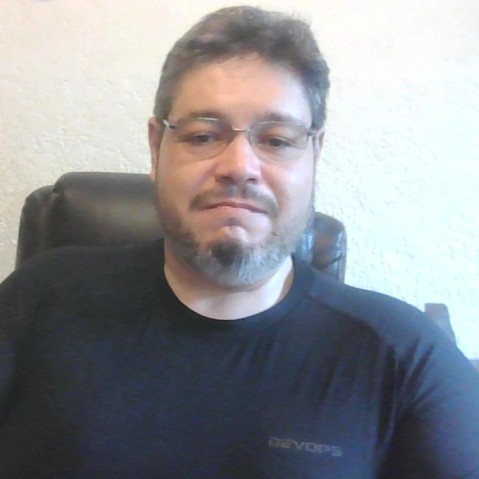
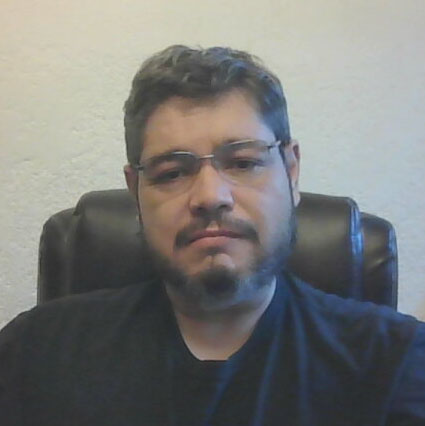
Agenda previa

diff --git a/layouts/speakers/list.html b/layouts/speakers/list.html
@@ -18,7 +18,7 @@
 
     <div class="speaker-strip">
       {{ range .Data.Pages.ByTitle }}
-        {{ if in .Params.events "2023" }}
+        {{ if in .Params.events "2023h2" }}
         <div class="speaker-item">
           <div class="speaker-block">
             <div class="headshot-box">

diff --git a/content/schedule/_index.md b/content/schedule/_index.md
@@ -4,153 +4,121 @@ date: 2021-06-04T09:37:06-05:00
 url: /agenda
 
 days: 
-  - id: a
-    title_short: "28-Mar: Testing & QA"
-    title_full: Martes 28 de marzo de 2023
+  - id: 2023h2a
+    title_short: "3 de octubre"
+    title_full: Martes 3 de octubre de 2023
     rooms: [1]
     timeslots: 
       - id: 1
-        time_start: 2023-03-28 10:00:00 -0600 CDT
+        time_start: 2023-10-03 10:00:00 -0600 CDT
         type: charla
       - id: 2
-        time_start: 2023-03-28 10:40:00 -0600 CDT
+        time_start: 2023-10-03 10:40:00 -0600 CDT
         type: charla
       - id: 3
-        time_start: 2023-03-28 11:30:00 -0600 CDT
+        time_start: 2023-10-03 11:20:00 -0600 CDT
         type: charla
       - id: 4
-        time_start: 2023-03-28 12:10:00 -0600 CDT
+        time_start: 2023-10-03 12:00:00 -0600 CDT
         type: charla
       - id: 5
-        time_start: 2023-03-28 12:50:00 -0600 CDT
+        time_start: 2023-10-03 12:50:00 -0600 CDT
         type: charla
       - id: 6
-        time_start: 2023-03-28 13:30:00 -0600 CDT
+        time_start: 2023-10-03 13:30:00 -0600 CDT
         type: charla
       - id: 7
-        time_start: 2023-03-28 15:00:00 -0600 CDT
+        time_start: 2023-10-03 15:00:00 -0600 CDT
         type: charla
       - id: 8
-        time_start: 2023-03-28 15:40:00 -0600 CDT
+        time_start: 2023-10-03 15:40:00 -0600 CDT
         type: charla
       - id: 9
-        time_start: 2023-03-28 16:30:00 -0600 CDT
+        time_start: 2023-10-03 16:30:00 -0600 CDT
         type: charla
       - id: 10
-        time_start: 2023-03-28 17:10:00 -0600 CDT
+        time_start: 2023-10-03 17:10:00 -0600 CDT
         type: charla
 
-  - id: b
-    title_short: "29-Mar: Desarrollo+Seguridad"
-    title_full: Miércoles 29 de marzo de 2023
+  - id: 2023h2b
+    title_short: "4 de octubre"
+    title_full: Miércoles 4 de octubre de 2023
     rooms: [1]
     timeslots: 
       - id: 1
-        time_start: 2023-03-29 10:00:00 -0600 CDT
+        time_start: 2023-10-04 10:00:00 -0600 CDT
         type: charla
       - id: 2
-        time_start: 2023-03-29 10:40:00 -0600 CDT
+        time_start: 2023-10-04 10:40:00 -0600 CDT
         type: charla
       - id: 3
-        time_start: 2023-03-29 11:30:00 -0600 CDT
+        time_start: 2023-10-04 11:20:00 -0600 CDT
         type: charla
       - id: 4
-        time_start: 2023-03-29 12:10:00 -0600 CDT
+        time_start: 2023-10-04 12:10:00 -0600 CDT
         type: charla
       - id: 5
-        time_start: 2023-03-29 12:50:00 -0600 CDT
+        time_start: 2023-10-04 12:50:00 -0600 CDT
         type: charla
       - id: 6
-        time_start: 2023-03-29 13:30:00 -0600 CDT
+        time_start: 2023-10-04 13:30:00 -0600 CDT
         type: charla
       - id: 7
-        time_start: 2023-03-29 15:00:00 -0600 CDT
+        time_start: 2023-10-04 15:00:00 -0600 CDT
         type: charla
       - id: 8
-        time_start: 2023-03-29 15:40:00 -0600 CDT
+        time_start: 2023-10-04 15:40:00 -0600 CDT
         type: charla
       - id: 9
-        time_start: 2023-03-29 16:30:00 -0600 CDT
+        time_start: 2023-10-04 16:30:00 -0600 CDT
         type: charla
       - id: 10
-        time_start: 2023-03-29 17:10:00 -0600 CDT
+        time_start: 2023-10-04 17:10:00 -0600 CDT
         type: charla
       - id: 11
-        time_start: 2023-03-29 17:10:00 -0600 CDT
+        time_start: 2023-10-04 17:10:00 -0600 CDT
         type: charla
 
-  - id: c
-    title_short: "30-Mar: Low code + asistido por IA"
-    title_full: Jueves 30 de marzo de 2023
+  - id: 2023h2c
+    title_short: "5 de octubre"
+    title_full: Jueves 5 de octubre de 2023
     rooms: [1]
     timeslots: 
       - id: 1
-        time_start: 2023-03-30 10:00:00 -0600 CDT
+        time_start: 2023-10-05 10:00:00 -0600 CDT
         type: charla
       - id: 2
-        time_start: 2023-03-30 10:40:00 -0600 CDT
+        time_start: 2023-10-05 10:40:00 -0600 CDT
         type: charla
       - id: 3
-        time_start: 2023-03-30 11:30:00 -0600 CDT
+        time_start: 2023-10-05 11:30:00 -0600 CDT
         type: charla
       - id: 4
-        time_start: 2023-03-30 12:10:00 -0600 CDT
+        time_start: 2023-10-05 12:10:00 -0600 CDT
         type: charla
       - id: 5
-        time_start: 2023-03-30 12:50:00 -0600 CDT
+        time_start: 2023-10-05 12:50:00 -0600 CDT
         type: charla
       - id: 6
-        time_start: 2023-03-30 15:00:00 -0600 CDT
+        time_start: 2023-10-05 15:00:00 -0600 CDT
         type: charla
       - id: 7
-        time_start: 2023-03-30 15:40:00 -0600 CDT
+        time_start: 2023-10-05 15:40:00 -0600 CDT
         type: charla
       - id: 8
-        time_start: 2023-03-30 16:30:00 -0600 CDT
+        time_start: 2023-10-05 16:30:00 -0600 CDT
         type: charla
       - id: 9
-        time_start: 2023-03-30 17:10:00 -0600 CDT
+        time_start: 2023-10-05 17:10:00 -0600 CDT
         type: charla
-  - id: d
-    title_short: "31-Mar: DevOps & Engineering management"
-    title_full: Viernes 31 de marzo de 2023
-    rooms: [1]
-    timeslots: 
-      - id: 1
-        time_start: 2023-03-31 10:00:00 -0600 CDT
-        type: charla
-      - id: 2
-        time_start: 2023-03-31 10:40:00 -0600 CDT
-        type: charla
-      - id: 3
-        time_start: 2023-03-31 11:30:00 -0600 CDT
-        type: charla
-      - id: 4
-        time_start: 2023-03-31 12:10:00 -0600 CDT
-        type: charla
-      - id: 5
-        time_start: 2023-03-31 13:00:00 -0600 CDT
-        type: charla
-      - id: 6
-        time_start: 2023-03-31 13:40:00 -0600 CDT
-        type: charla
-      - id: 7
-        time_start: 2023-03-31 14:30:00 -0600 CDT
-        type: charla
-      - id: 8
-        time_start: 2023-03-31 15:10:00 -0600 CDT
-        type: charla
+
 
   
 tracks:
-  - slug: testing-qa
-    label: Testing & QA
-  - slug: lowcode-ia
-    label: Low Code & IA
-  - slug: trends
-    label: Trends
-  - slug: community
-    label: Community  
+  - slug: sre
+    label: SRE
+  - slug: cicd
+    label: CI/CD
   - slug: workshop
     label: Workshop  
 

diff --git a/content/speakers/alejandra-bricio/_index.md b/content/speakers/alejandra-bricio/_index.md
@@ -1,0 +1,18 @@
+---
+title: Alejandra Bricio
+date: 2023-01-13T00:37:59-06:00
+images : 
+ - images/speakers/alejandra-bricio.jpg
+designation: Site Reliability Engineer en PayPal 
+twitter: 
+linkedin: https://www.linkedin.com/in/alejandrabricio/
+github: 
+events:
+ - 2023h2
+---
+
+Engineer with experience in AWS Cloud and automation. I'm proficient in infrastructure provisioning and monitoring, and have extensive experience implementing CI/CD pipelines, collaborating with development teams to implement observability and reliability requirements, and providing site reliability and availability. 
+
+My expertise in Infrastructure as Code (IaC) using Terraform and AWS CloudFormation has resulted in significant reductions in infrastructure deployment time and errors. I've implemented continuous delivery (CI/CD) using a variety of tools and technologies, resulting in a reduction in deployment failures and an increase in deployment frequency. 
+
+With certifications in AWS Certified Solutions Architect – Associate and GitOps Certified for Argo, and skills in Kubernetes, CI/CD, Terraform, New Relic, Amazon EC2, Python, Amazon Web Services (AWS), Docker, Bash, PostgreSQL, AWS CloudFormation, Amazon ECS, I'm ready to bring my expertise and dedication to the next challenge in my career.

diff --git a/content/sessions/2023h2/b3-cultura-generativa.md b/content/sessions/2023h2/b3-cultura-generativa.md
@@ -1,0 +1,18 @@
+---
+title: "Creando una Cultura Generativa para SRE"
+slug: cultura-generativa
+speakers:
+ - Cristopher Avila
+time_start: 2023-10-04T11:20:00-06:00
+time_end: 2023-10-04T11:55:00-06:00
+day: 2023h2b
+timeslot: 3
+room: 1
+timeorder: 1
+track: sre
+video: 
+slides: 
+
+---
+
+Invertir en personas, procesos y herramientas. La confiabilidad es un esfuerzo humano, y en muchos sentidos el enfoque SRE lo ejemplifica. Uno de los principios básicos SRE es, que la percepción del usuario es la verdadera medida de confiabilidad. Así que tal vez no sea sorprendente que la confiabilidad es impulsada por una dinámica de equipo positiva. En el reporte de DORA vemos que los equipos con una cultura “generativa”, donde se exhibe confianza y colaboración, son más propensos a practicar SRE, y más propensos a lograr buenos resultados de confiabilidad.

diff --git a/content/speakers/jorge-gaona/_index.md b/content/speakers/jorge-gaona/_index.md
@@ -1,0 +1,14 @@
+---
+title: Jorge Gaona
+date: 2023-01-13T00:41:53-06:00
+images: 
+ - images/speakers/jorge-gaona.jpg
+designation: Cloud TSA en Akamai
+twitter: 
+linkedin: https://www.linkedin.com/in/pollirrata/
+github: 
+events:
+ - 2023h2
+---
+
+Jorge Gaona es un desarrollador de software, líder técnico y arquitecto de soluciones con más de 20 años de experiencia creando y desarrollando servicios y aplicaciones web, usando principalmente tecnologías de Microsoft. En este tiempo ha trabajado en múltiples ciudades de México y EU, en proyectos de sectores que van desde Salud, Comercio y Construcción hasta IoT Industrial. Cuenta con las certificaciones IT Architect - Foundation por la IASA, Technology Specialist de Microsoft, Solutions Architect de AWS, entre otras.

diff --git a/content/sessions/2023h2/c3-impacto-infra.md b/content/sessions/2023h2/c3-impacto-infra.md
@@ -1,0 +1,18 @@
+---
+title: "Impacto de la complejidad del tiempo y espacio en tu infraestructura"
+slug: impacto-infra
+speakers:
+ - Edwin Moedano
+time_start: 2023-10-05T11:20:00-06:00
+time_end: 2023-10-05T11:55:00-06:00
+day: 2023h2c
+timeslot: 3
+room: 1
+timeorder: 1
+track: sre
+video: 
+slides: 
+
+---
+
+Select the right infrastructure is crucial when performance and high availability is needed, not understanding how time and space complexity can impact our application algorithms could lead to choose components that are not a good fit for the workload and can lead to scaling and performance issues. In this talk, you are going to learn how to differentiate between some algorithms complexity and what kind of infrastructure could be a great fit.

diff --git a/content/speakers/edwin-moedano/_index.md b/content/speakers/edwin-moedano/_index.md
@@ -1,0 +1,14 @@
+---
+title: "Edwin Moedano"
+date: 2020-11-20T18:24:19-06:00
+images:
+ - "images/speakers/edwin-moedano.jpg"
+designation: Program Lead & SRE en Wizeline
+country: "mx"
+linkedin: https://www.linkedin.com/in/edwinmoedano/
+github: 
+events:
+ - 2023h2
+---
+
+Edwin is a Site Reliability Engineer that studied Telematics Engineering and a Master's degree in Computer Science at IPN with experience in Telecommunications, DevOps, high availability infrastructure with different cloud providers, artificial Intelligence, databases, web and mobile applications. His hobbies are music, reading, running, the stock market, blockchain and cycling

diff --git a/content/sessions/2023h2/a2-sre-multinube.md b/content/sessions/2023h2/a2-sre-multinube.md
@@ -1,0 +1,18 @@
+---
+title: "SRE en entornos multinube"
+slug: sre-multinube
+speakers:
+ - José Luis Chiquete
+time_start: 2023-10-03T10:40:00-06:00
+time_end: 2023-10-03T11:15:00-06:00
+day: 2023h2a
+timeslot: 2
+room: 1
+timeorder: 1
+track: sre
+video: 
+slides: 
+
+---
+
+Los corporativos globales cuentan con un enorme stack de herramientas para escoger las mejores opciones, incluso en entornos donde convergen múltiples proveedores de nube, pero es fácil perderse en un mar de indicadores y herramientas. Saber escoger una herramienta y el menor número de niveles de servicios a observar es un reto del que habaremos en esta charla.

diff --git a/content/speakers/david-sol/_index.md b/content/speakers/david-sol/_index.md
@@ -3,9 +3,12 @@ title: David Sol
 date: 2023-01-16T12:48:18-06:00
 images : 
  - images/speakers/david-sol.jpg
-designation : 
+designation: Site Reliability Engineer en Wizeline 
 twitter: 
-linkedin: 
+linkedin: https://www.linkedin.com/in/soldavidcloud/ 
 github: 
+events:
+ - 2023h2
 ---
 
+SRE en Wizeline, vive en la Gran Ciudad de México junto con su esposa, hija, y un par de conejos graduados de la universidad. Está disfrutando el Cómputo de Nube, DevOps, Serverless y Automatización como tecnologías y cambios culturales que nos llevan hacia el futuro de la profesión. Cultivaron para que comieramos, cultivemos para que coman.

diff --git a/content/sessions/2023h2/b4-taller-observabilidad.md b/content/sessions/2023h2/b4-taller-observabilidad.md
@@ -1,0 +1,18 @@
+---
+title: "Taller: Observabilidad en la plataforma GCP"
+slug: taller-observabilidad
+speakers:
+ - José Luis Chiquete
+time_start: 2023-10-04T12:00:00-06:00
+time_end: 2023-10-04T13:30:00-06:00
+day: 2023h2b
+timeslot: 4
+room: 1
+timeorder: 1
+track: sre
+video: 
+slides: 
+
+---
+
+SRE es un concepto creado por Google y la observabilidad es uno de los temas más relevantes para las certificaciones de Google Professional Cloud Architect y Google Professional DevOps Engineer. En este taller se explorarán los principales opciones de observabilidad (monitoreo, logging, tracing y debugging) en la plataforma GCP.

diff --git a/content/sessions/2023h2/a1-retos-sysops.md b/content/sessions/2023h2/a1-retos-sysops.md
@@ -1,0 +1,23 @@
+---
+title: "Retos de SysOps a SRE"
+slug: sysops-sre
+speakers:
+ - Paul Torres
+time_start: 2023-10-03T10:00:00-06:00
+time_end: 2023-10-03T10:35:00-06:00
+day: 2023h2a
+timeslot: 1
+room: 1
+timeorder: 1
+track: sre
+video: 
+slides: 
+
+---
+
+En esta charla platicaremos sobre los retos, problemas, tips y estrategias que enfrenta un equipo multidisciplinario SysOps hacia una metodología SRE (Site Reliability Engineering). Abordaremos temas como:
+ - Cambios de cultura organizacional
+ - Soporte de lideres 
+ - Brecha técnica 
+ - Implementación de una cultura DevOps
+ - Herramientas y tecnologías

diff --git a/content/sessions/2023h2/c2-cdn.md b/content/sessions/2023h2/c2-cdn.md
@@ -1,0 +1,18 @@
+---
+title: "Serverless vs. Anonymous: CDNs al rescate"
+slug: cdn-rescate
+speakers:
+ - David Sol
+time_start: 2023-10-05T10:40:00-06:00
+time_end: 2023-10-05T11:15:00-06:00
+day: 2023h2c
+timeslot: 2
+room: 1
+timeorder: 1
+track: sre
+video: 
+slides: 
+
+---
+
+Soportar un sitio de Web importante es una experiencia única. Defenderlo de Anonymous México aún más. Ven a escuchar como Amazon CloudFront nos ayudó a superar ese reto. Platicaremos sobre el reto que teníamos, la arquitectura que usamos y como la adaptamos.
